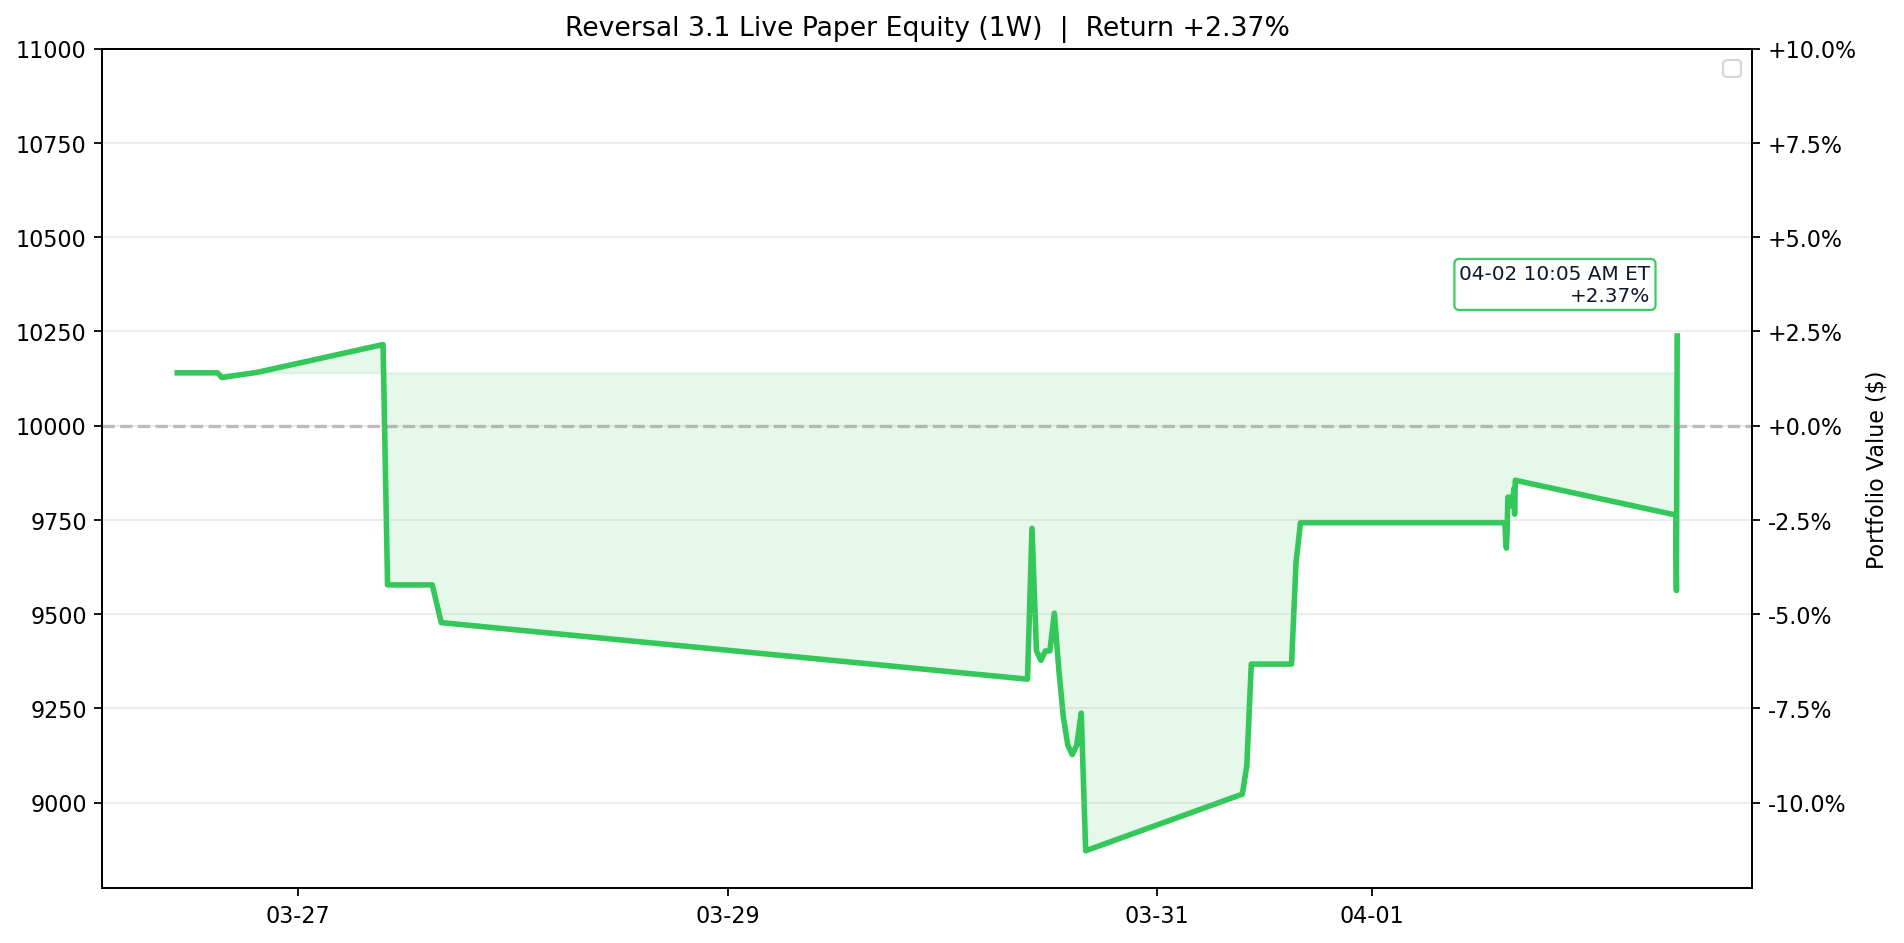
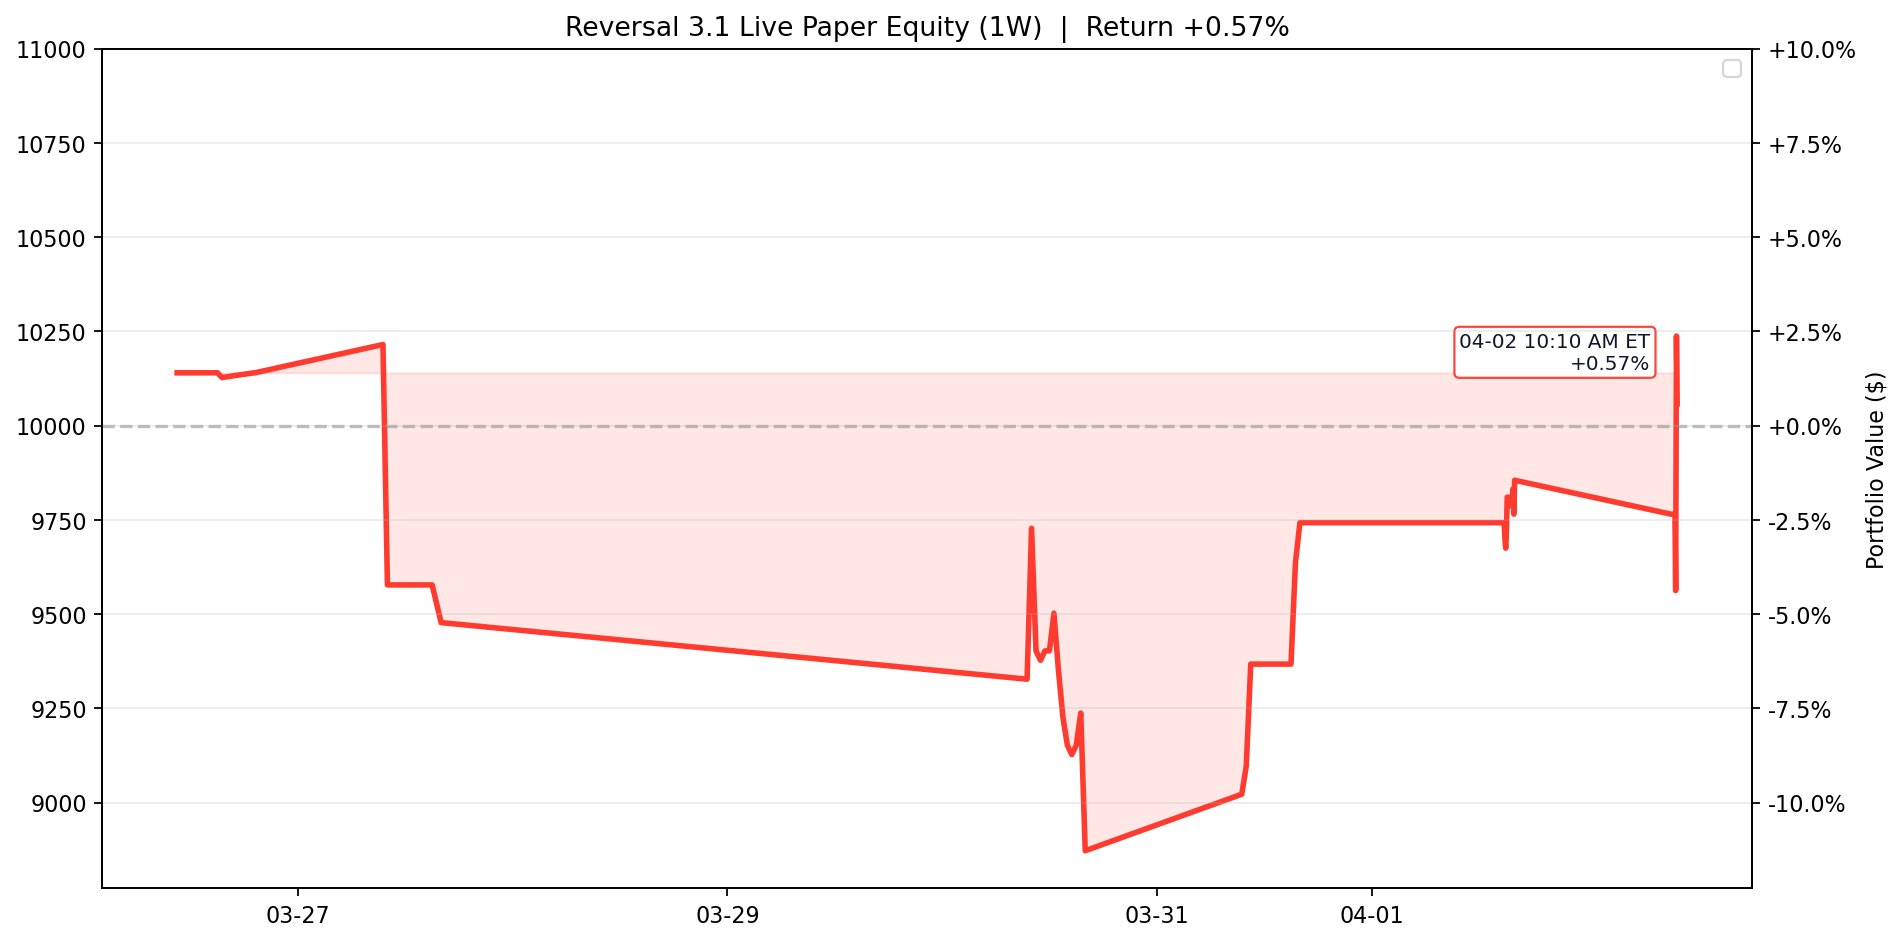
Update Reversal 3.1 live paper test 2026-04-02 10:10 ET

Changed region(s): [[0.093, 0.246, 0.8986, 0.9226]]

diff --git a/results/reversal_3_1_live/README.md b/results/reversal_3_1_live/README.md
@@ -1,6 +1,6 @@
 # Reversal 3.1 Live Paper Test
 
-Last updated (ET): `2026-04-02 10:05:05 EDT`
+Last updated (ET): `2026-04-02 10:10:05 EDT`
 Last processed slot: `manage_1000`
 
 ## Active Configuration
@@ -20,16 +20,16 @@ Last processed slot: `manage_1000`
 ## Portfolio Snapshot
 
 - Cash: `$5,355.00`
-- Equity: `$10,237.50`
+- Equity: `$10,057.50`
 - Realized PnL: `$-257.50`
-- Unrealized PnL: `$495.00`
+- Unrealized PnL: `$315.00`
 - Open positions: `1`
 
 ## Open Positions
 
 ```text
 ticker     contract_symbol entry_trade_date  business_days_held  entry_option_price  current_option_price  entry_spot  current_spot  unrealized_pnl  unrealized_return_pct  success_rate  matched_signals  current_drop_pct  entry_iv_pct  current_iv_pct  rolling_sigma_20d_pct
-  NFLX NFLX260508C00096000       2026-04-01                   1                4.88                  5.42       95.56         95.86           495.0                  11.28         94.87               39              0.58         41.74           45.73                  24.42
+  NFLX NFLX260508C00096000       2026-04-01                   1                4.88                  5.22       95.56         95.81           315.0                   7.18         94.87               39              0.58         41.74           44.34                  24.42
 ```
 
 ## Today's Closed Trades (2026-04-02)
@@ -40,24 +40,25 @@ _None_
 
 ```text
 ticker  success_rate_%  matched_signals  current_drop_%  target_rebound_$  target_price  rolling_sigma_20d_%  call_candidate
-   HON          100.00               23            0.56              0.90        227.81                22.84            True
-   WDC           96.55               29            3.09              6.43        294.97                91.06            True
-   STX           94.44               36            1.55              4.60        421.15                80.16            True
+  TSLA          100.00               10            3.67              9.79        377.06                40.57            True
+   WDC           96.77               31            2.62              5.46        295.39                91.06            True
+   STX           94.87               39            1.13              3.34        421.69                80.16            True
   SBUX           94.12               34            0.66              0.42         90.25                36.02            True
-  NVDA           92.59               27            1.03              1.27        175.21                36.98            True
+  FTNT           93.33               45            0.57              0.32         81.01                29.50            True
+  NVDA           93.33               30            0.92              1.13        175.27                36.98            True
+  MRVL           92.31               26            1.91              1.42        106.10                92.70            True
   DXCM           91.18               34            1.44              0.63         62.10                31.67            True
-  MRVL           90.91               22            2.74              2.05        105.83                92.70            True
-  MPWR           90.00               30            1.68             13.15       1113.87                56.57            True
-  UPRO           90.00               20            2.71              1.88         98.36                57.18            True
-  ASML           87.50               16            2.69             25.60       1348.79                52.01            True
-  CHTR           86.11               36            0.88              1.33        215.70                36.36            True
-  ORLY           85.71               28            1.02              0.66         91.82                22.81            True
+  UPRO           90.48               21            2.53              1.75         98.42                57.18            True
+  MPWR           89.66               29            1.73             13.54       1113.71                56.57            True
+  AVGO           89.66               29            1.51              3.30        312.07                41.97            True
+  ABNB           86.67               15            2.16              1.89        124.38                36.75            True
 ```
 
 ## Recent Events
 
 ```text
                     timestamp_et         slot   event_type                          detail
+2026-04-02T10:10:05.923370-04:00  manage_1000 slot_skipped {"reason": "already_processed"}
 2026-04-02T10:05:05.400756-04:00  manage_1000 slot_skipped {"reason": "already_processed"}
 2026-04-02T10:00:03.566981-04:00  manage_1000 slot_skipped {"reason": "already_processed"}
 2026-04-02T09:55:03.086371-04:00  manage_1000 slot_skipped {"reason": "already_processed"}
@@ -67,7 +68,6 @@ ticker  success_rate_%  matched_signals  current_drop_%  target_rebound_$  targe
 2026-04-01T16:00:01.918138-04:00  manage_1600 slot_skipped {"reason": "already_processed"}
 2026-04-01T15:55:00.975857-04:00  manage_1600 slot_skipped {"reason": "already_processed"}
 2026-04-01T15:40:05.880995-04:00  manage_1530 slot_skipped {"reason": "already_processed"}
-2026-04-01T15:35:05.885345-04:00  manage_1530 slot_skipped {"reason": "already_processed"}
 ```
 
 ## Equity Curve (1W)

diff --git a/README.md b/README.md
@@ -3,8 +3,8 @@
 <!-- reversal-3.1-live:start -->
 ## Reversal 3.1 Live Paper Test
 
-- Last updated (ET): `2026-04-02 10:05:05 EDT`
-- Equity: `$10,237.50` | Realized: `$-257.50` | Unrealized: `$495.00` | Open positions: `1`
+- Last updated (ET): `2026-04-02 10:10:05 EDT`
+- Equity: `$10,057.50` | Realized: `$-257.50` | Unrealized: `$315.00` | Open positions: `1`
 - Today closed trades: `0`
 - Current slot: `manage_1000`
 - Universe: `qqq_plus_leverage_etfs`
@@ -12,7 +12,7 @@
 
 ```text
 ticker     contract_symbol  current_option_price  unrealized_pnl  unrealized_return_pct  business_days_held
-  NFLX NFLX260508C00096000                  5.42           495.0                  11.28                   1
+  NFLX NFLX260508C00096000                  5.22           315.0                   7.18                   1
 ```
 
 ![Reversal 3.1 Live Equity 1W](assets/reversal_3_1_live_equity.png)
